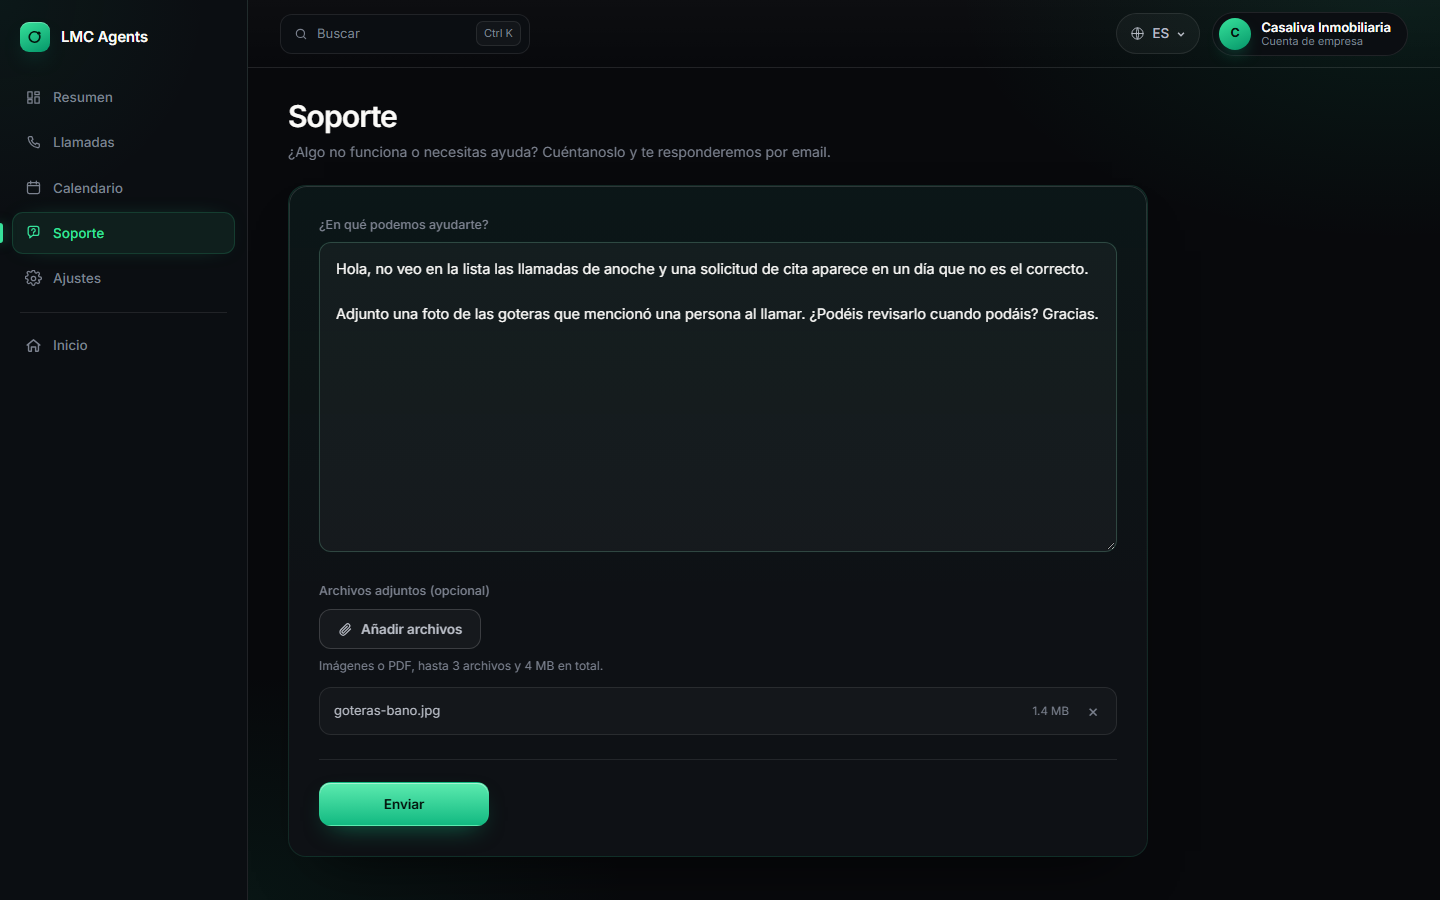
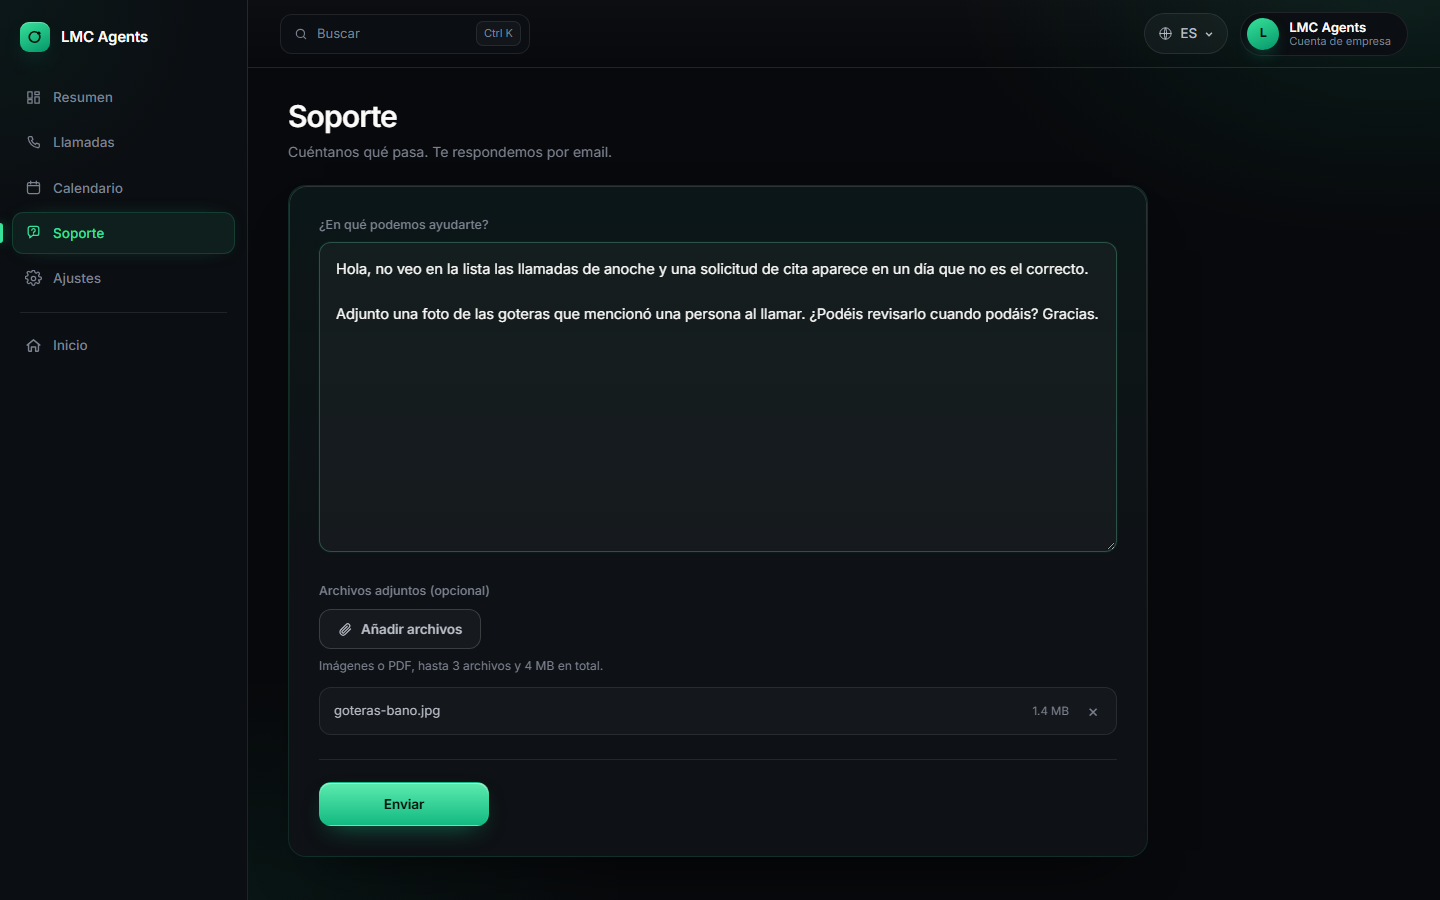
Demo and screenshots use LMC Agents as the business name

Changed region(s): [[0.1875, 0.1556, 0.5625, 0.1867], [0.7812, 0.0, 0.9688, 0.0622]]

diff --git a/frontend/lib/demo/scenarios.ts b/frontend/lib/demo/scenarios.ts
@@ -31,14 +31,14 @@ export type LocaleScenarios = {
 
 export const SCENARIOS: Record<Locale, LocaleScenarios> = {
   fr: {
-    business: { name: "Plomberie Nordvelle", language: "fr", country: "FR", email: "contact@nordvelle.example" },
-    opener: "Bonjour, vous êtes bien chez Plomberie Nordvelle, comment puis-je vous aider ?",
+    business: { name: "LMC Agents", language: "fr", country: "FR", email: "hello@lmcagents.example" },
+    opener: "Bonjour, vous êtes bien chez LMC Agents, comment puis-je vous aider ?",
     bookClose: (pref) => `Très bien, j'ai noté votre demande pour ${pref}. L'équipe vous confirmera l'horaire rapidement. Puis-je avoir votre nom ?`,
     cbClose: "C'est noté, je transmets votre demande de rappel à l'équipe. Puis-je avoir votre nom ?",
     inqClose: "Je transmets votre question à l'équipe, qui reviendra vers vous si besoin. Puis-je avoir votre nom ?",
     nameLine: (n) => `${n}.`,
     bye: (f) => `Merci ${f}, c'est enregistré. Bonne journée.`,
-    unknownLines: [["Agent", "Bonjour, vous êtes bien chez Plomberie Nordvelle, comment puis-je vous aider ?"], ["User", "Allô ?"]],
+    unknownLines: [["Agent", "Bonjour, vous êtes bien chez LMC Agents, comment puis-je vous aider ?"], ["User", "Allô ?"]],
     outcome: { book: "Rendez-vous demandé", bookHigh: "Intervention urgente demandée", cb: "Rappel demandé", inq: "Renseignement donné", other: "Appel interrompu" },
     undatedPref: "à convenir",
     names: ["Nadia Fournier", "Baptiste Lemaire", "Inès Carvalho", "Olivier Roche", "Margaux Delorme", "Yann Perrot", "Sabrina Costa", "Thibault Gaillard", "Élodie Mercier", "Karim Benali", "Laure Vidal", "Hugo Descamps", "Agnès Rivière", "Mathieu Colin", "Léa Fontaine", "Clémence Guyot", "Antoine Bellec", "Sonia Lambert", "Romain Chevalier", "Justine Marchand", "David Nguyen", "Charlotte Poirier", "Étienne Vasseur", "Maëlle Renaud", "Pierre Lacombe", "Anaïs Dupuy", "Vincent Morel", "Noémie Thibault", "Fabien Rey", "Claire Duval"],
@@ -71,14 +71,14 @@ export const SCENARIOS: Record<Locale, LocaleScenarios> = {
   },
 
   es: {
-    business: { name: "Casaliva Inmobiliaria", language: "es", country: "ES", email: "contacto@casaliva.example" },
-    opener: "Hola, ha llamado a Casaliva Inmobiliaria, ¿en qué puedo ayudarle?",
+    business: { name: "LMC Agents", language: "es", country: "ES", email: "hello@lmcagents.example" },
+    opener: "Hola, ha llamado a LMC Agents, ¿en qué puedo ayudarle?",
     bookClose: (pref) => `Perfecto, he anotado su solicitud para ${pref}. El equipo le confirmará la hora en breve. ¿Me dice su nombre?`,
     cbClose: "Anotado, paso su petición de llamada al equipo. ¿Me dice su nombre?",
     inqClose: "Paso su consulta al equipo, que le responderá si hace falta. ¿Me dice su nombre?",
     nameLine: (n) => `${n}.`,
     bye: (f) => `Gracias, ${f}, queda registrado. Que tenga un buen día.`,
-    unknownLines: [["Agent", "Hola, ha llamado a Casaliva Inmobiliaria, ¿en qué puedo ayudarle?"], ["User", "¿Hola?"]],
+    unknownLines: [["Agent", "Hola, ha llamado a LMC Agents, ¿en qué puedo ayudarle?"], ["User", "¿Hola?"]],
     outcome: { book: "Cita solicitada", bookHigh: "Visita urgente solicitada", cb: "Llamada solicitada", inq: "Consulta atendida", other: "Llamada interrumpida" },
     undatedPref: "a convenir",
     names: ["Lucía Ortega", "Javier Molina", "Carmen Bautista", "Andrés Villalba", "Marta Quintero", "Sergio Navarro", "Paula Escudero", "Rafael Cordero", "Inmaculada Peña", "Diego Salvatierra", "Beatriz Lozano", "Álvaro Miranda", "Rocío Herrera", "Ignacio Duarte", "Elena Cabrera", "Miguel Ángel Soler", "Nuria Camacho", "Fernando Aguilar", "Lorena Pardo", "Adrián Ibáñez", "Sonia Trujillo", "Tomás Bermúdez", "Alicia Montero", "Cristian Prieto", "Yolanda Serrano", "Raúl Meléndez", "Silvia Arroyo", "Enrique Lara", "Patricia Cano", "Óscar Beltrán"],
@@ -111,14 +111,14 @@ export const SCENARIOS: Record<Locale, LocaleScenarios> = {
   },
 
   en: {
-    business: { name: "Kestrelwick Heating", language: "en", country: "GB", email: "hello@kestrelwick.example" },
-    opener: "Hello, you've reached Kestrelwick Heating, how can I help?",
+    business: { name: "LMC Agents", language: "en", country: "GB", email: "hello@lmcagents.example" },
+    opener: "Hello, you've reached LMC Agents, how can I help?",
     bookClose: (pref) => `Great, I've noted your request for ${pref}. The team will confirm the time shortly. Can I take your name?`,
     cbClose: "Noted, I'll pass your callback request to the team. Can I take your name?",
     inqClose: "I'll pass your question on to the team, who'll get back to you if needed. Can I take your name?",
     nameLine: (n) => `It's ${n}.`,
     bye: (f) => `Thank you, ${f}, that's all recorded. Have a good day.`,
-    unknownLines: [["Agent", "Hello, you've reached Kestrelwick Heating, how can I help?"], ["User", "Hello?"]],
+    unknownLines: [["Agent", "Hello, you've reached LMC Agents, how can I help?"], ["User", "Hello?"]],
     outcome: { book: "Visit requested", bookHigh: "Urgent visit requested", cb: "Callback requested", inq: "Question answered", other: "Call cut off" },
     undatedPref: "to be arranged",
     names: ["Oliver Hartley", "Priya Nair", "Callum Reyes", "Hannah Whitcombe", "Tomasz Brandt", "Aisha Rahman", "Ewan Gallagher", "Sophie Lindqvist", "Marcus Adeyemi", "Freya Kavanagh", "Daniel Osei", "Imogen Pryce", "Rohan Malhotra", "Ellie Fenwick", "Jamal Hussain", "Georgia Tennant", "Niall Brennan", "Chloe Ashworth", "Kwame Boateng", "Rachel Somerton", "Ben Okafor", "Isla Fairbrother", "Luca Ferraro", "Megan Pollard", "Sanjay Verma", "Harriet Lowe", "Dominic Cray", "Yasmin Qureshi", "Adam Whitlock", "Nora Ellery"],

diff --git a/frontend/lib/tour-hotspots.ts b/frontend/lib/tour-hotspots.ts
@@ -21,6 +21,6 @@ export const TOUR_ICONS: Record<TourLang, Record<NoteSlide, { x: number; y: numb
     overview: [{ x: 63.99, y: 24.02 }, { x: 30.72, y: 37.33 }],
     calls: [{ x: 23.09, y: 23.35 }, { x: 51.7, y: 36.72 }, { x: 75.72, y: 36.72 }],
     calendar: [{ x: 66.56, y: 24.45 }, { x: 74.19, y: 32.41 }],
-    support: [{ x: 38.3, y: 27.32 }, { x: 33.09, y: 68.07 }],
+    support: [{ x: 38.3, y: 24.91 }, { x: 33.09, y: 65.66 }],
   },
 };
